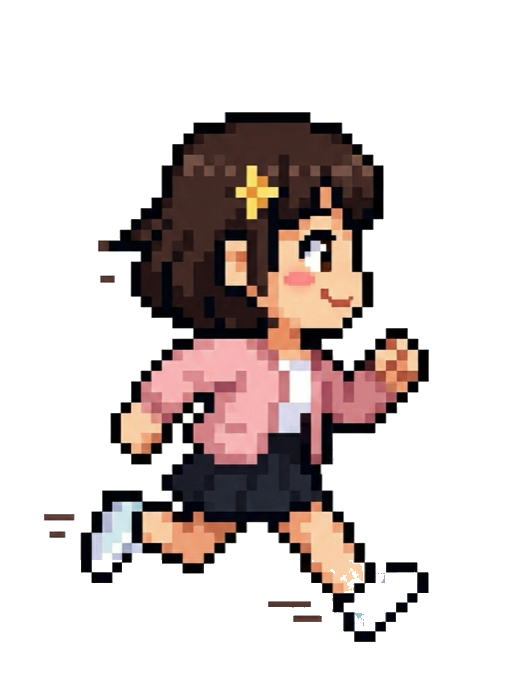
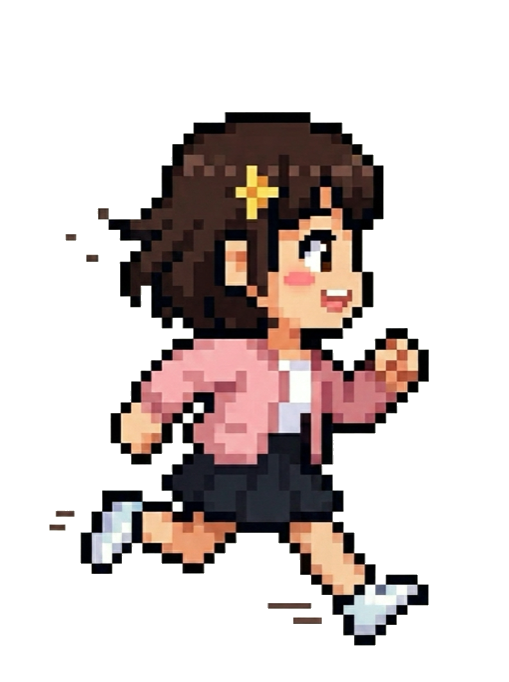
feat: Add dynamic running step animation and bobbing for Player 2

diff --git a/index.html b/index.html
@@ -1772,6 +1772,9 @@
       b.life--;
     });
 
+    // Update animation frame tick
+    g.frameTick++;
+
     // Render Co-op Companion (Player 2)
     if(g.encounteredP2){
       const isP2 = g.companionPlayer === 'p2';
@@ -1785,8 +1788,12 @@
       }
       const p2 = loadedAssets[companionAsset] || loadedAssets[isP2 ? ASSET_PATHS.player.player2 : ASSET_PATHS.player.idle];
       if(p2){
-        const ph=52, pw=ph*(p2.width/p2.height);
-        ctx.drawImage(p2, g.p2x, g.p2y, pw, ph);
+        const targetH = 52;
+        const ratio = p2.width / p2.height;
+        const dh = targetH;
+        const dw = targetH * ratio;
+        const companionBob = p.onGround ? Math.sin(g.frameTick * 0.45 + 1.4) * 2 : 0;
+        ctx.drawImage(p2, g.p2x, g.p2y + companionBob, dw, dh);
       }
       if(g.code==='de' && g.encounterTimer>0){
         ctx.save();
@@ -1806,13 +1813,11 @@
     if(g.mainPlayer==='p2'){
       if(!p.onGround) pose = ASSET_PATHS.player.player2_jump;
       else {
-        g.frameTick++;
         pose = (Math.floor(g.frameTick / 7) % 2 === 0) ? ASSET_PATHS.player.player2_run1 : ASSET_PATHS.player.player2_run2;
       }
     } else {
       if(!p.onGround) pose = ASSET_PATHS.player.jump;
       else {
-        g.frameTick++;
         pose = (Math.floor(g.frameTick / 7) % 2 === 0) ? ASSET_PATHS.player.run1 : ASSET_PATHS.player.run2;
       }
     }
@@ -1822,7 +1827,8 @@
       const ratio = sprite.width / sprite.height;
       const dh = targetH;
       const dw = targetH * ratio;
-      ctx.drawImage(sprite, px + p.w/2 - dw/2, py + p.h - dh, dw, dh);
+      const runBob = p.onGround ? Math.sin(g.frameTick * 0.45) * 2 : 0;
+      ctx.drawImage(sprite, px + p.w/2 - dw/2, py + p.h - dh + runBob, dw, dh);
     }
 
     ctx.restore(); // Exit World Space
